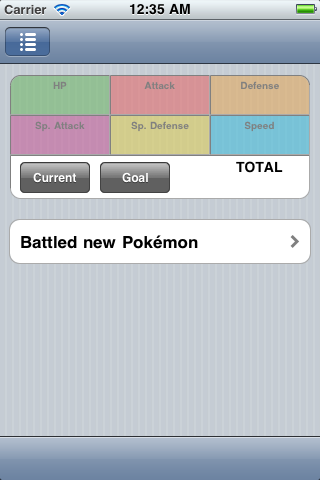
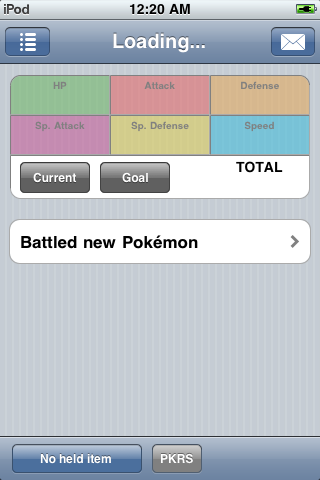
add email button to main view to allow user to send feedback email; update launch image

diff --git a/PokemonEV/Classes/View Controllers/TrackerViewController.m b/PokemonEV/Classes/View Controllers/TrackerViewController.m
@@ -77,6 +77,7 @@
 	}
 	
 	self.navigationItem.leftBarButtonItem = [[[UIBarButtonItem alloc] initWithImage:[UIImage imageNamed:@"icon-list"] style:UIBarButtonItemStyleBordered target:self action:@selector(listTapped)] autorelease];
+	self.navigationItem.rightBarButtonItem = [[[UIBarButtonItem alloc] initWithImage:[UIImage imageNamed:@"icon-envelope"] style:UIBarButtonItemStyleBordered target:self action:@selector(emailTapped)] autorelease];
   
   [self refreshView];
 }
@@ -113,13 +114,19 @@
 
 - (void)refreshView
 {
-	if (!pokemon)
+	if (LaunchImage)
+	{
+		self.navigationItem.title = @"Loading...";
+	}
+	else if (pokemon)
+	{
+		self.navigationItem.title = pokemon.species.name;
+	}
+	else
 	{
 		self.navigationItem.title = @"";
 		return;
 	}
-	
-	self.navigationItem.title = pokemon.species.name;
 	
 	HeldItem *item = pokemon.heldItem;
 	
@@ -655,6 +662,35 @@
       [managedObjectContext rollback];
     }
 	}
+}
+
+#pragma mark - Email
+
+- (void)emailTapped
+{
+	if (![MFMailComposeViewController canSendMail])
+	{
+		[[[[UIAlertView alloc] initWithTitle:@"Cannot Send Email" message:@"Email is not set up on this device." delegate:nil cancelButtonTitle:@"OK" otherButtonTitles:nil] autorelease] show];
+		return;
+	}
+	
+	MFMailComposeViewController *composer = [[MFMailComposeViewController alloc] init];
+	[composer setMailComposeDelegate:self];
+	
+	[composer setSubject:[NSString stringWithFormat:@"%@ Feedback", [[[NSBundle mainBundle] infoDictionary] objectForKey:(NSString*)kCFBundleNameKey]]];
+	[composer setToRecipients:[NSArray arrayWithObject:@"dan@appsbydan.com"]];
+	
+	[self.navigationController presentModalViewController:composer animated:YES];
+}
+
+- (void)mailComposeController:(MFMailComposeViewController *)controller didFinishWithResult:(MFMailComposeResult)result error:(NSError *)error
+{
+	if (result == MFMailComposeResultFailed)
+	{
+		[[[[UIAlertView alloc] initWithTitle:@"Email Failed" message:@"There was an error sending your email. Please try again later." delegate:nil cancelButtonTitle:@"OK" otherButtonTitles:nil] autorelease] show];
+	}
+	
+	[self.navigationController dismissModalViewControllerAnimated:YES];
 }
 
 #pragma mark - Memory management

diff --git a/PokemonEV/Classes/View Controllers/TrackerViewController.h b/PokemonEV/Classes/View Controllers/TrackerViewController.h
@@ -7,6 +7,7 @@
 //
 
 #import <UIKit/UIKit.h>
+#import <MessageUI/MessageUI.h>
 #import "SpeciesListDelegate.h"
 #import "HeldItemListDelegate.h"
 #import "PokemonListDelegate.h"
@@ -15,7 +16,7 @@
 @class EVCountFooterCell;
 @class EVSpread;
 
-@interface TrackerViewController : UITableViewController <PokemonListDelegate, SpeciesListDelegate, HeldItemListDelegate, UIActionSheetDelegate>
+@interface TrackerViewController : UITableViewController <PokemonListDelegate, SpeciesListDelegate, HeldItemListDelegate, UIActionSheetDelegate, MFMailComposeViewControllerDelegate>
 {
 	NSManagedObjectContext *managedObjectContext;
 	
